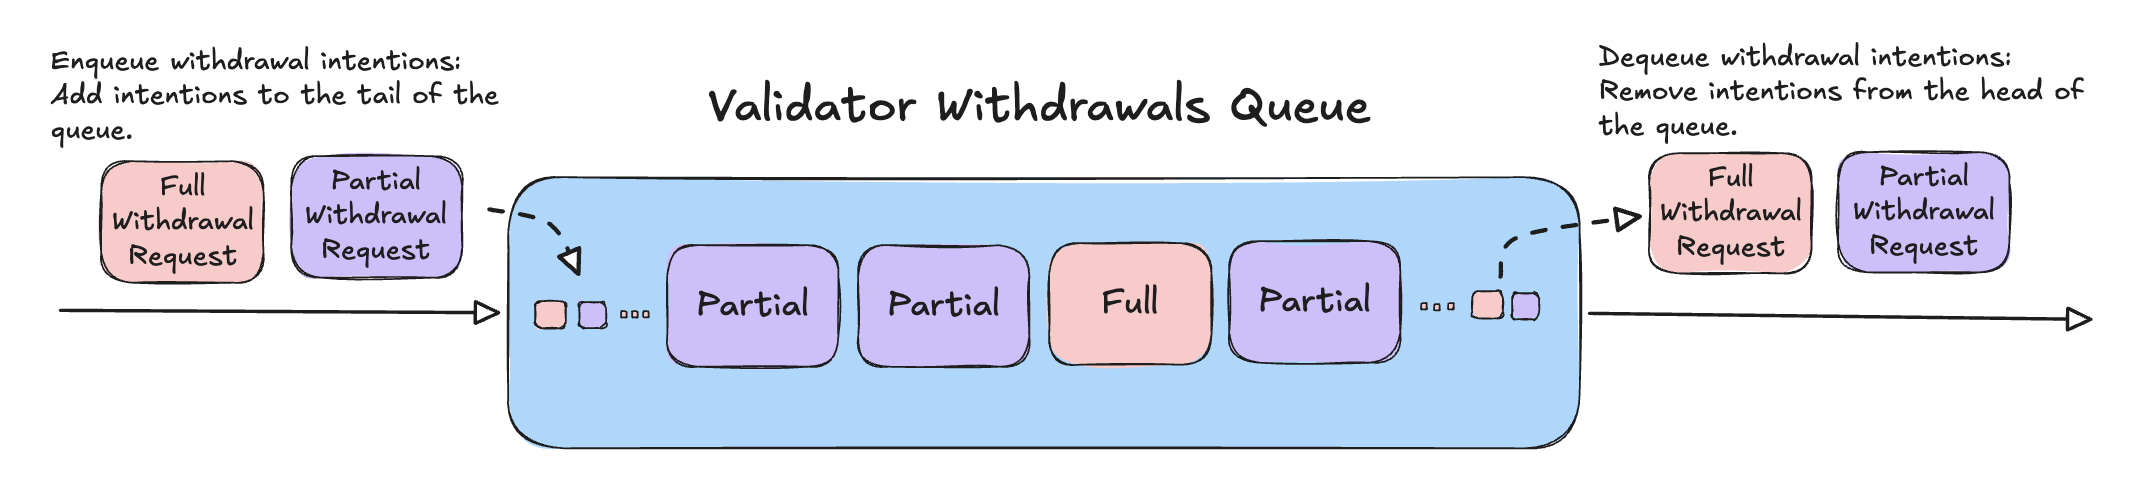
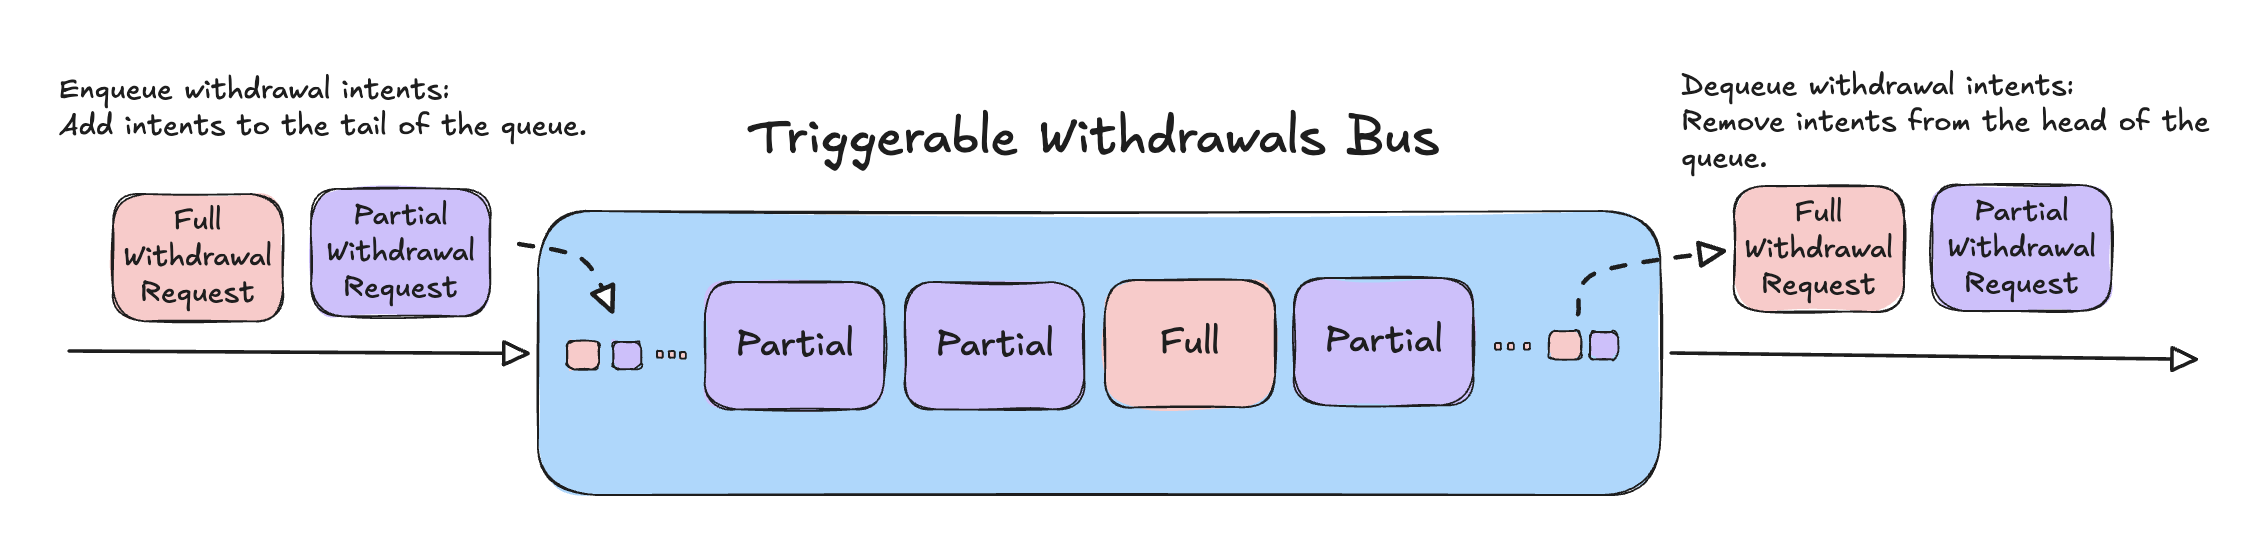
do not store module id and operator id in withdrawal intent

diff --git a/LIPS/lip-38.md b/LIPS/lip-38.md
@@ -5,7 +5,7 @@ status: WIP
 author: Raman Siamionau (@F4ever), Dmitry Gusakov (@dgusakov), Maksim Kuraian (@mkurayan)
 discussions-to: <Create a new thread on https://research.lido.fi/ and drop the link here>
 created: 2026-06-26
-updated: 2026-09-27
+updated: 2026-09-30
 ---
 
 ## Simple Summary
@@ -253,10 +253,8 @@ interface ITriggerableWithdrawalsBus {
     ///                 extracted-balance rate limit at a flat 2048 ETH.
     /// amount  > 0  -> partial withdrawal (PWR) once executed; weighed at amount.
     struct WithdrawalIntent {
-        uint32  moduleId;       // matches the 3-byte moduleId field width in the packed report record
-        uint64  nodeOperatorId; // matches the 5-byte nodeOpId field width in the packed report record
         uint64  amount;         // gwei; 0 = full withdrawal (FWR), > 0 = partial withdrawal (PWR).
-        bytes   pubkey;         // dynamic type placed last so it doesn't break packing of the fields above
+        bytes   pubkey;         // validator pubkey
     }
 
     /// Called by the TWO: append decoded report intentions to the tail of the
